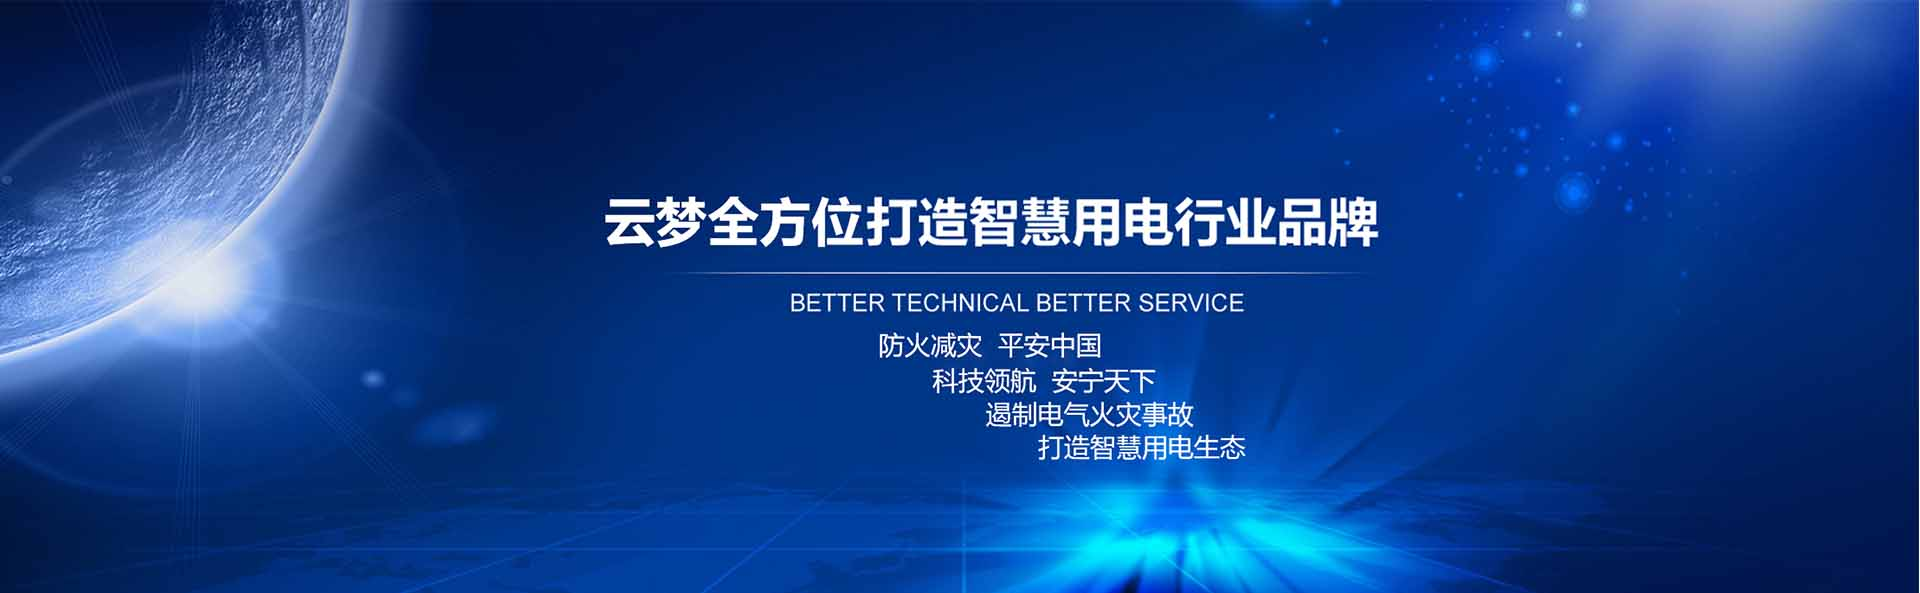
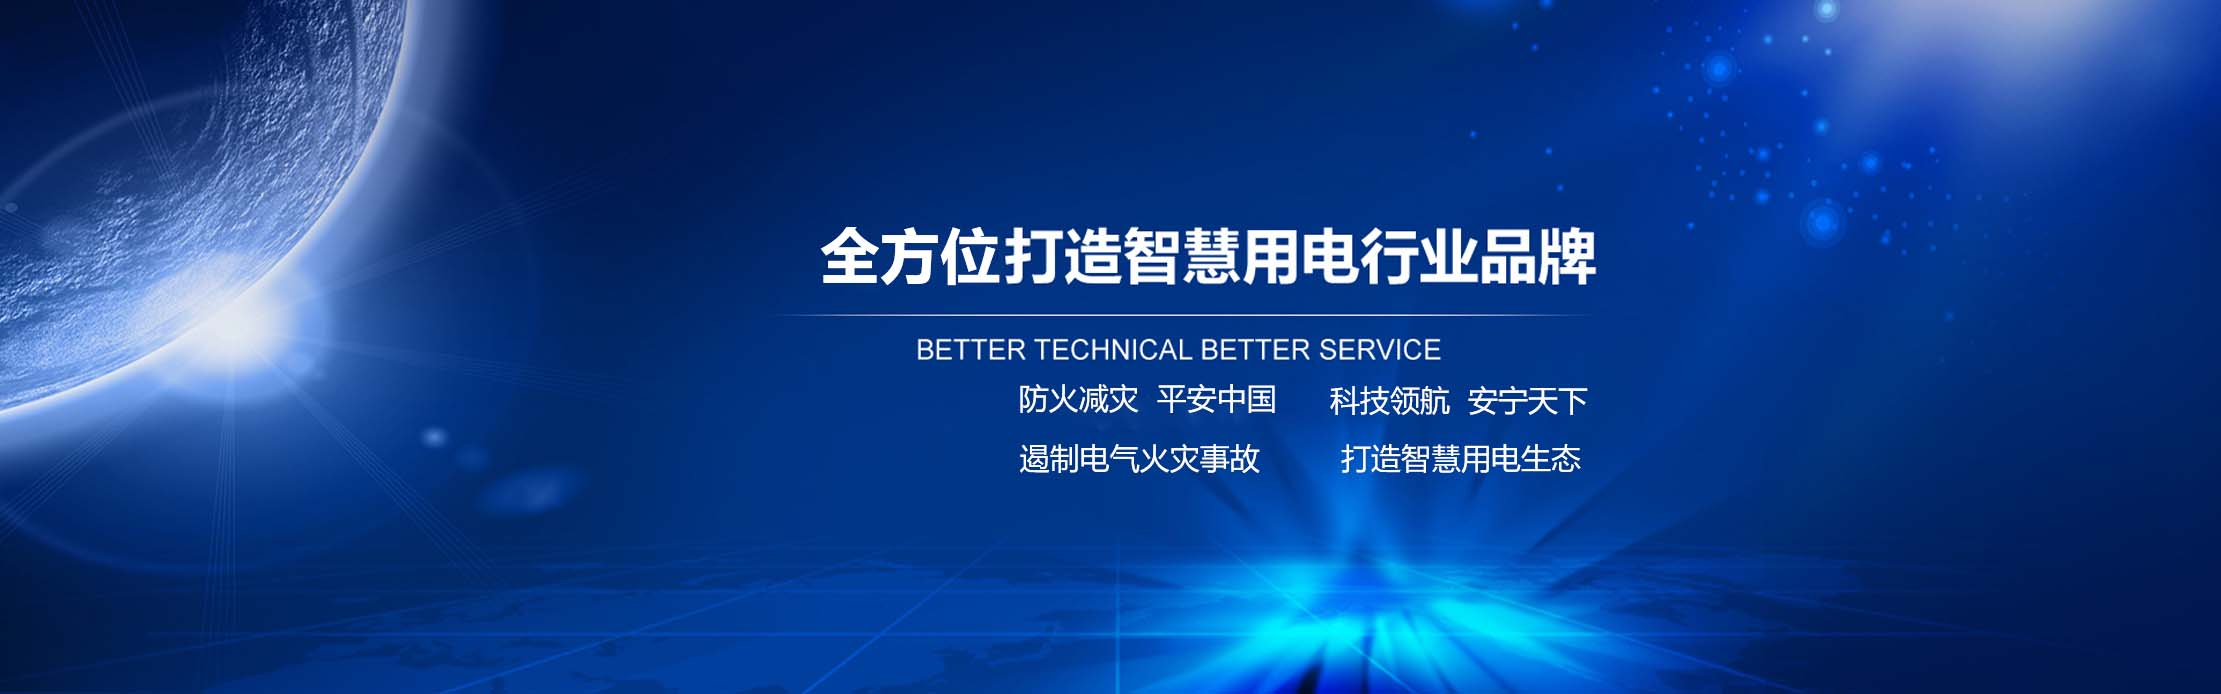
解决方案修改

diff --git a/index.html b/index.html
@@ -18,7 +18,7 @@
 			    overflow: hidden;
 			    position: relative;
 			    width:100%;
-			    margin: 80px auto 5% auto;
+			    margin: 0px auto 5% auto;
 			}
 			.box1 li{
 			    float: left;
@@ -102,6 +102,40 @@
 				right: 10px;
 				background: url(img/next.png);
 			}
+			.silder ul li{
+				position: relative;
+			}
+			.silder ul li .mask{
+				position: absolute;
+				bottom:0;
+				left:0;
+				right:0;
+				top:392px;
+				background: rgba(0,0,0,0.6);
+			}
+			.silder ul li .mask .title{
+				text-align: center;
+				color:#fff;
+				margin-bottom: 15px;
+				font-size: 16px;
+				margin-top:150px;
+			}
+			.silder ul li .mask p{
+				font-size: 14px;
+				color:#fff;
+				margin:0 20px;
+				line-height: 30px;
+			}
+			.silder ul li .mask a{
+				padding:5px 20px;
+				color:#008CD6;
+				font-size: 14px;
+				border-radius: 15px;
+				background: #DCDCDC;
+			}
+			.silder ul li .mask .lookdetail{
+				text-align: center;
+			}
 		</style>
 	</head>
 	<body>
@@ -158,28 +192,28 @@
 						<img src="img/yewu01.jpg" alt="">
 						<div class="ins">
 							<span>智慧水务</span>
-							<p>智慧水务通过数采仪、无线网络、水质水压表等在线监测设备实时感知城市供排水系统的运行状态，并采用可视化的方式有机整合水务管理部门与供排水设施，形成“城市水务物联网”</p>
+							<p>智慧水务通过数采仪、无线网络、水质水压表等在线监测城市供排水系统的运行状态，形成“城市水务物联网”</p>
 						</div>
 					</li>
 					<li>
 						<img src="img/yewu02.jpg" alt="">
 						<div class="ins">
-							<span>智慧水务</span>
-							<p>智慧水务通过数采仪、无线网络、水质水压表等在线监测设备实时感知城市供排水系统的运行状态，并采用可视化的方式有机整合水务管理部门与供排水设施，形成“城市水务物联网”</p>
+							<span>智慧用电</span>
+							<p>智慧安全用电监控系统可通过声光报警、手机APP、短信报警、电话通知等提醒方式提醒用户用电系统的安全状态。</p>
 						</div>
 					</li>
 					<li>
 						<img src="img/yewu03.jpg" alt="">
 						<div class="ins">
-							<span>智慧水务</span>
-							<p>智慧水务通过数采仪、无线网络、水质水压表等在线监测设备实时感知城市供排水系统的运行状态，并采用可视化的方式有机整合水务管理部门与供排水设施，形成“城市水务物联网”</p>
+							<span>世界物联</span>
+							<p>物联网将现实世界数字化，应用范围十分广泛。物联网的应用领域主要包括智能物联网水表、智慧用电监控系统。</p>
 						</div>
 					</li>
 					<li style="margin-right:0;">
 						<img src="img/yewu04.jpg" alt="">
 						<div class="ins">
-							<span>智慧水务</span>
-							<p>智慧水务通过数采仪、无线网络、水质水压表等在线监测设备实时感知城市供排水系统的运行状态，并采用可视化的方式有机整合水务管理部门与供排水设施，形成“城市水务物联网”</p>
+							<span>大数据计算</span>
+							<p>运用大数据计算，整合用水用电情况，适时提出节水、用电安全预警，把科技运用到生产生活中。</p>
 						</div>
 					</li>
 				</ul>
@@ -199,12 +233,33 @@
 						<ul>
 							<li>
 								<img src="img/fangan01.jpg" alt="">
+								<div class="mask">
+									<h3 class='title'>智慧水务</h3>
+									<p>新兴信息技术充分运用于城市水务综合管理，把传感器嵌入和装备到自然水和社会水循环系统中，并通过普遍连接形成“感知物联网”。</p>
+									<p class="lookdetail">
+										<a href="javascript:void(0)">查看详情></a>
+									</p>
+								</div>
 							</li>
 							<li>
 								<img src="img/fangan02.jpg" alt="">
+								<div class="mask">
+									<h3 class='title'>城市消防</h3>
+									<p>城市消防物联网的建设，将为城市消防监督管理部门的科学监督、管理和执法提供真实，有效和实时的数据保证，实现“人防”、“技防”于一体的应用目标。</p>
+									<p class="lookdetail">
+										<a href="javascript:void(0)">查看详情></a>
+									</p>
+								</div>
 							</li>
 							<li>
 								<img src="img/fangan03.jpg" alt="">
+								<div class="mask">
+									<h3 class='title'>社区消防</h3>
+									<p>智慧安全社区整合社区内部安防、消防、门禁、道闸、智慧弄老等多种系统，提供不同应用场景管理平台，解决城市社会治安及服务最后一公里难题。</p>
+									<p class="lookdetail">
+										<a href="javascript:void(0)">查看详情></a>
+									</p>
+								</div>
 							</li>
 						</ul>
 					</div>
@@ -246,12 +301,32 @@
 					</li>
 				</ul>
 				<div class="abousIns">
-					<p>北京云梦智慧科技有限公司是一家专门从事地下管网信息化、智慧水务、智慧消防等相关领域关键技术研发和产业化的高科技公司，拥有多项自主研发的软硬件技术和完善的售后服务体系。 </p>
-					<p>公司主要从事智慧水务与智慧消防的产品研发、生产、销售和系统集成，产品范围覆盖智慧水务与智慧消防的整体解决方案、智慧用电检测终端、物联网烟感、物联网水表等。</p>
-					<p>公司秉承：“质量为本，信誉第一”的经营理念，为中国的智慧城市建设提供最优质的高科技产品，立志成为世界一流的智慧城市建设与运营服务商！</p>
-					<p class="btn">
-						<a class="lookmore" href="javascript:void(0)">查看详情>></a>
-					</p>
+					<div class="show">
+						<p>北京云梦智慧科技有限公司是一家专门从事地下管网信息化、智慧水务、智慧消防等相关领域关键技术研发和产业化的高科技公司，拥有多项自主研发的软硬件技术和完善的售后服务体系。 </p>
+						<p>公司主要从事智慧水务与智慧消防的产品研发、生产、销售和系统集成，产品范围覆盖智慧水务与智慧消防的整体解决方案、智慧用电检测终端、物联网烟感、物联网水表等。</p>
+						<p>公司秉承：“质量为本，信誉第一”的经营理念，为中国的智慧城市建设提供最优质的高科技产品，立志成为世界一流的智慧城市建设与运营服务商！</p>
+						<p class="btn">
+							<a class="lookmore" href="javascript:void(0)">查看详情>></a>
+						</p>
+					</div>
+					<div>
+						<p>北京云梦智慧科技有限公司由总经理统筹管理：产品研发中心、规划咨询部、市场营销中心、行政人事部、软件开发中心、硬件产品研发部、商务部、项目部、售前支持部、技术维修部。</p>
+						<p class="btn">
+							<a class="lookmore" href="javascript:void(0)">查看详情>></a>
+						</p>
+					</div>
+					<div>
+						<p>诚信铸就品质  创新引领未来公司严格按照科学、高效、严谨、创新的管理要求，秉承“高新技术创造优质名品，周到服务孕育无限商机”的经营理念，建立制度化、标准化、系统化的运营机制和管理体系，打造最值得信赖的智慧系统和服务供应商，为智慧城市的发展做出贡献。</p>
+						<p class="btn">
+							<a class="lookmore" href="javascript:void(0)">查看详情>></a>
+						</p>
+					</div>
+					<div>
+						<p>云梦智慧式安全用电监控预警服务云平台是国内领先的智慧用电安全监管服务系统，具有多项发明专利、实用新型专利、软件著作等。公司拥有智慧水务领域前沿的软硬件技术和完善的售后服务体系，各项荣誉称号及质量与环境体系认证，连续被评为中国智能水表综合实力前十强企业，最具创新力企业、技术领先企业与国家级高新技术企业；中国智能水表最具价值品牌、知名品牌企业，全国安全饮用水工程推广品牌，全国水利系重点推荐优秀产品。</p>
+						<p class="btn">
+							<a class="lookmore" href="javascript:void(0)">查看详情>></a>
+						</p>
+					</div>
 				</div>
 			</div>
 		</div>
@@ -493,7 +568,7 @@
 				$('.silder-box-1').mySilder({
 					width: 306, //容器的宽度 必选参数!!!!!!
 					height: 392, //容器的高度 必选参数!!!!!!
-					auto: true, //是否自动滚动
+					auto: false, //是否自动滚动
 					autoTime: 5, //自动滚动时，时间间隙，即多长滚动一次,单位(秒)
 					direction: 'x', //滚动方向,默认X方向
 					autoType: 'left', //滚动方向，auto为true时生效
@@ -560,6 +635,8 @@
 			//关于我们tab切换
 			$('.absHandle li').click(function() {
 				$(this).addClass('active').siblings().removeClass('active');
+				var index = $(this).index();
+				$(".abousIns>div:eq("+ index +")").addClass("show").siblings().removeClass('show');
 			})
 			//底部(合作伙伴)无缝滚动
 			var AutoScroll_cont = function(a, b, c, d) {
@@ -662,6 +739,17 @@
 					$('.container').removeClass('acstyle');
 				}
 			}
+			
+			$(".silder ul li").mouseover(function(){
+				$(this).find(".mask").animate({
+					"top" : "0"
+				},100);
+			})
+			$(".silder ul li").mouseleave(function(){
+				$(this).find(".mask").animate({
+					"top" : "392px"
+				},100);
+			})
 		</script>
 	</body>
 </html>

diff --git a/less/style.css b/less/style.css
@@ -128,7 +128,7 @@ button {
   display: inline-block;
   line-height: 100px;
   height: 74px;
-  font-size: 21px;
+  font-size: 18px;
   padding: 0px 10px;
 }
 .container .content .mavList li a .txt {
@@ -326,6 +326,13 @@ button {
   background-color: #dcdcdc;
   margin-top: -3px;
   padding-top: 50px;
+}
+.aboutUs .absContent .abousIns>div{
+	margin:0 15px;
+	display: none;
+}
+.aboutUs .absContent .abousIns>div.show{
+	display: block;
 }
 .aboutUs .absContent .abousIns p {
   text-align: center;

diff --git a/solution.html b/solution.html
@@ -45,7 +45,7 @@
 		</div>
 		<!-- 轮播图 -->
 		<div class="bannerImg">
-			<img src="img/zhihui.png" alt="">
+			<img src="img/fangan.png" alt="">
 		</div>
 		<!-- 平台对接流程 -->
 		<div class="yeWuBox programe">
